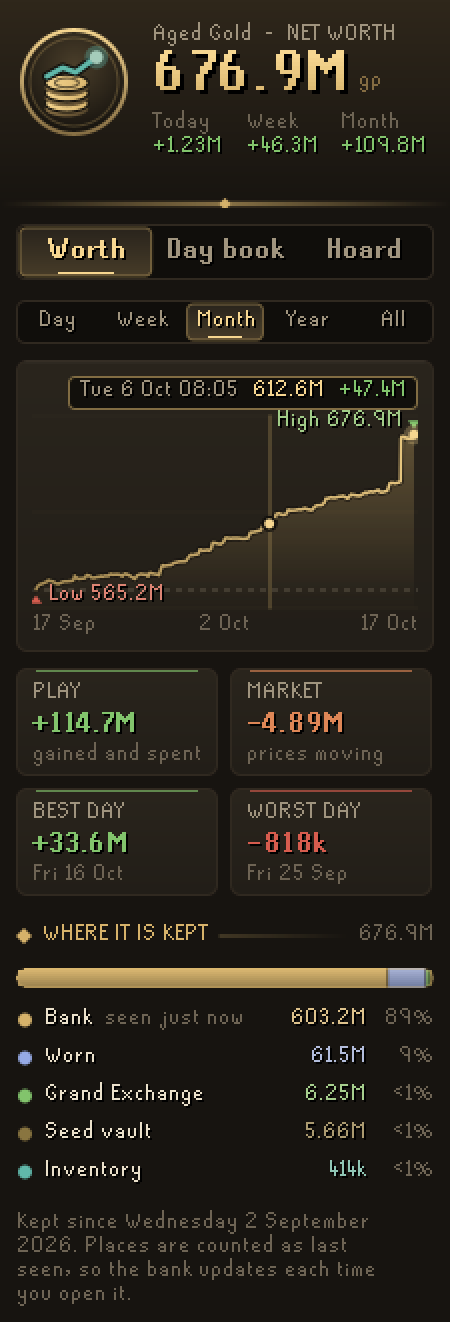
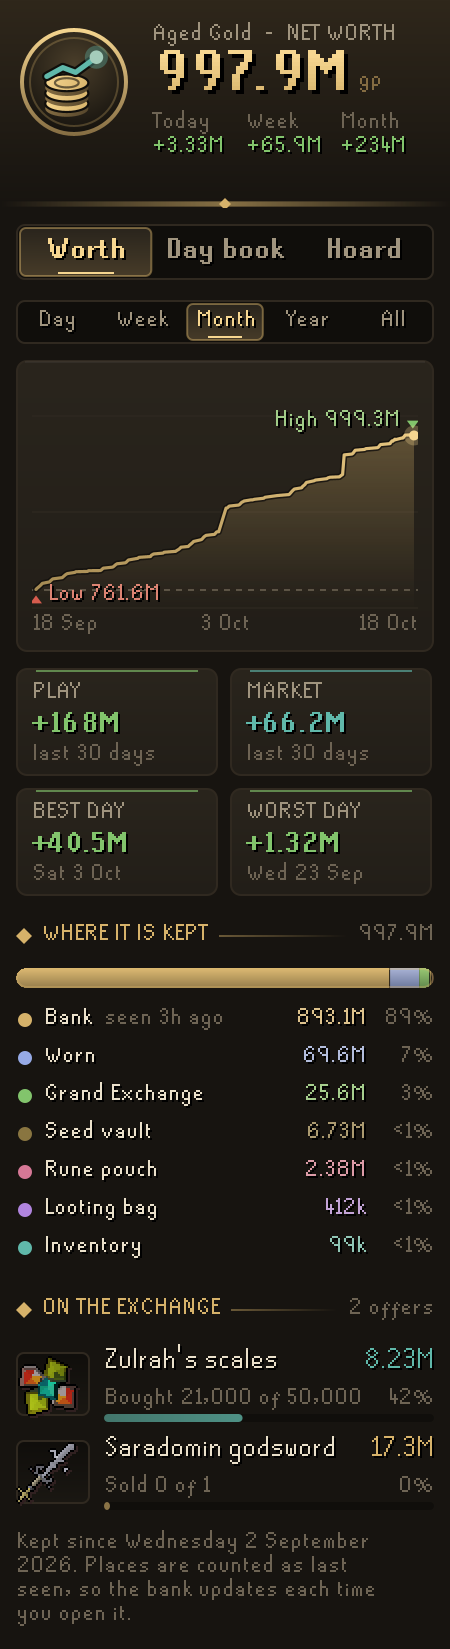
Read the day's high and low on the Day range and keep the crosshair
- The Day range shows the day's high and low instead of a best and
  worst day that are both today, and the tiles say which span they
  cover instead of a caption that was cut off.
- The chart's crosshair survives the panel refreshing under it.
- The panel is not rebuilt while it is closed; it catches up when
  opened.
- README: how the exchange, tax, rune pouch and looting bag are
  counted, and what the ledger cannot see. Screenshots refreshed.

diff --git a/src/main/java/com/codex/ledger/ui/LedgerPanel.java b/src/main/java/com/codex/ledger/ui/LedgerPanel.java
@@ -39,6 +39,7 @@ public class LedgerPanel extends PluginPanel
 	private static final String[] RANGES = {"Day", "Week", "Month", "Year", "All"};
 	private static final long[] RANGE_MS = {86_400_000L, 7 * 86_400_000L, 30 * 86_400_000L, 365 * 86_400_000L, 0};
 	private static final int[] RANGE_DAYS = {1, 7, 30, 365, 0};
+	private static final String[] RANGE_NOTES = {"today", "last 7 days", "last 30 days", "last year", "all time"};
 	private static final String[] SPANS = {"Today", "7 days", "30 days", "All"};
 	private static final int[] SPAN_DAYS = {1, 7, 30, 0};
 	private static final int LINES = 6;
@@ -71,6 +72,7 @@ public class LedgerPanel extends PluginPanel
 	private ZoneId zone = ZoneId.systemDefault();
 	private String openDay;
 	private int pagesShown = PAGES;
+	private final int[] chartPointer = {-1};
 	/** Tabs whose content is out of date; a hidden tab is only rebuilt when it is next shown. */
 	private final boolean[] stale = {true, true, true};
 
@@ -99,7 +101,11 @@ public class LedgerPanel extends PluginPanel
 
 		tabs.onChange(this::showTab);
 		range.setSelected(1, false);
-		range.onChange(i -> rebuildWorth());
+		range.onChange(i ->
+		{
+			chartPointer[0] = -1;
+			rebuildWorth();
+		});
 		span.onChange(i ->
 		{
 			openDay = null;
@@ -134,7 +140,25 @@ public class LedgerPanel extends PluginPanel
 		this.state = state;
 		this.now = now;
 		updateCrest(player);
-		rebuild();
+		if (isShowing())
+		{
+			rebuild();
+		}
+		else
+		{
+			// Nobody is looking; the tab on show is rebuilt when the panel is opened.
+			java.util.Arrays.fill(stale, true);
+		}
+	}
+
+	@Override
+	public void onActivate()
+	{
+		int tab = tabs.getSelected();
+		if (stale[tab])
+		{
+			rebuild(tab);
+		}
 	}
 
 	/** Opens one tab, for previews and tests. */
@@ -250,7 +274,7 @@ public class LedgerPanel extends PluginPanel
 		List<Ledger.Point> points = slice(ledger.getHistory(), from, to, ledger.getTotal());
 		Card chart = new Card(new BorderLayout());
 		chart.setBorder(new EmptyBorder(8, 8, 6, 8));
-		chart.add(new WorthChart(points, from, to, r == 0), BorderLayout.CENTER);
+		chart.add(new WorthChart(points, from, to, r == 0, chartPointer), BorderLayout.CENTER);
 		stack.add(chart);
 
 		Report report = Report.of(ledger, RANGE_DAYS[r], today(), 1);
@@ -274,20 +298,36 @@ public class LedgerPanel extends PluginPanel
 		}
 		JPanel tiles = new JPanel(new GridLayout(2, 2, 6, 6));
 		tiles.setOpaque(false);
-		tiles.add(new StatTile(Format.signed(report.getPlay()), "Play", "gained and spent", Theme.signed(report.getPlay())));
-		tiles.add(new StatTile(Format.signed(report.getMarket()), "Market", "prices moving", report.getMarket() >= 0 ? Theme.MARKET : Theme.EMBER));
+		String when = RANGE_NOTES[r];
+		tiles.add(new StatTile(Format.signed(report.getPlay()), "Play", when, Theme.signed(report.getPlay())));
+		tiles.add(new StatTile(Format.signed(report.getMarket()), "Market", when, report.getMarket() >= 0 ? Theme.MARKET : Theme.EMBER));
+		Day today = ledger.day(today());
+		if (r == 0 && today != null)
+		{
+			// One day has no best and worst; its high and low say more.
+			tiles.add(new StatTile(Format.coins(today.getHigh()), "High", "today", Theme.GOLD_BRIGHT));
+			tiles.add(new StatTile(Format.coins(today.getLow()), "Low", "today", Theme.GOLD));
+			stack.add(tiles);
+			whereKept(stack);
+			replace(worth, stack);
+			return;
+		}
 		tiles.add(new StatTile(best == null ? "-" : Format.signed(best.change()), "Best day",
 			best == null ? "" : Format.day(LocalDate.parse(best.getDate())), best == null ? Theme.TEXT_MUTED : Theme.signed(best.change())));
 		tiles.add(new StatTile(worst == null ? "-" : Format.signed(worst.change()), "Worst day",
 			worst == null ? "" : Format.day(LocalDate.parse(worst.getDate())), worst == null ? Theme.TEXT_MUTED : Theme.signed(worst.change())));
 		stack.add(tiles);
+		whereKept(stack);
+		replace(worth, stack);
+	}
 
+	private void whereKept(StackPanel stack)
+	{
 		stack.add(new SectionHeader("Where it is kept", Format.coins(ledger.getTotal())));
 		stack.add(new StoreBreakdown(parts()));
 		offers(stack);
 		stack.add(Ui.wrapped("Kept since " + Format.date(ledger.getSince()) + ". Places are counted as last seen, so the bank updates each time you open it.",
 			Theme.small(), Theme.TEXT_FAINT, WIDTH - 10));
-		replace(worth, stack);
 	}
 
 	private long firstPoint()

diff --git a/src/main/java/com/codex/ledger/ui/WorthChart.java b/src/main/java/com/codex/ledger/ui/WorthChart.java
@@ -30,13 +30,16 @@ class WorthChart extends JComponent
 	private final long to;
 	private final boolean intraday;
 	private int hover = -1;
+	/** Where the pointer was, carried from the chart this one replaced so a refresh keeps the crosshair. */
+	private final int[] pointer;
 
 	/**
 	 * @param points oldest first, already cut to the range
 	 * @param intraday label the axis with times rather than dates
 	 */
-	WorthChart(List<Ledger.Point> points, long from, long to, boolean intraday)
+	WorthChart(List<Ledger.Point> points, long from, long to, boolean intraday, int[] pointer)
 	{
+		this.pointer = pointer;
 		this.points = points;
 		this.from = from;
 		this.to = Math.max(from + 1, to);
@@ -48,6 +51,7 @@ class WorthChart extends JComponent
 			@Override
 			public void mouseMoved(MouseEvent e)
 			{
+				pointer[0] = e.getX();
 				int index = nearest(e.getX());
 				if (index != hover)
 				{
@@ -59,6 +63,7 @@ class WorthChart extends JComponent
 			@Override
 			public void mouseExited(MouseEvent e)
 			{
+				pointer[0] = -1;
 				hover = -1;
 				repaint();
 			}
@@ -96,6 +101,10 @@ class WorthChart extends JComponent
 		int w = getWidth();
 		int h = getHeight();
 		int plotBottom = h - BOTTOM;
+		if (hover < 0 && pointer[0] >= 0)
+		{
+			hover = nearest(pointer[0]);
+		}
 		g.setFont(Theme.small());
 		FontMetrics fm = g.getFontMetrics();
 

diff --git a/src/test/java/com/codex/ledger/ui/FormatTest.java b/src/test/java/com/codex/ledger/ui/FormatTest.java
@@ -1,0 +1,34 @@
+package com.codex.ledger.ui;
+
+import com.codex.ledger.core.Offer;
+import static org.junit.Assert.assertEquals;
+import org.junit.Test;
+
+public class FormatTest
+{
+	@Test
+	public void compactKeepsToThreeFigures()
+	{
+		assertEquals("+628M", Format.signedCompact(628_140_000L));
+		assertEquals("-41.2k", Format.signedCompact(-41_249));
+		assertEquals("1.53B", Format.compact(1_534_000_000L));
+		assertEquals("8,240", Format.compact(8_240));
+		assertEquals("12.4M", Format.compact(12_400_000));
+	}
+
+	@Test
+	public void billionsCarryAnotherFigure()
+	{
+		assertEquals("1.504B", Format.coins(1_504_200_000L));
+		assertEquals("676.9M", Format.coins(676_900_000L));
+		assertEquals("12.4B", Format.coins(12_400_000_000L));
+	}
+
+	@Test
+	public void offersSayHowFarTheyHaveGot()
+	{
+		assertEquals("Bought 21,000 of 50,000", LedgerPanel.offerNote(new Offer(1, true, 50_000, 160, 21_000, 3_340_000, true)));
+		assertEquals("Sold 1, to collect", LedgerPanel.offerNote(new Offer(1, false, 1, 160, 1, 160, false)));
+		assertEquals("Cancelled at 3 of 10", LedgerPanel.offerNote(new Offer(1, true, 10, 160, 3, 480, false)));
+	}
+}

diff --git a/README.md b/README.md
@@ -1,6 +1,6 @@
 # Codex Ledger
 
-**Your net worth over time, and where your gold went.** Codex Ledger keeps count of everything your account owns (bank, inventory, worn gear, Grand Exchange offers, seed vault and looting bag), draws your worth as a line over days, weeks and months, and keeps a day book that splits every change into what you gained or spent and what prices did.
+**Your net worth over time, and where your gold went.** Codex Ledger keeps count of everything your account owns (bank, inventory, worn gear, Grand Exchange offers, rune pouch, seed vault and looting bag), draws your worth as a line over days, weeks and months, and keeps a day book that splits every change into what you gained or spent and what prices did.
 
 It is the sixth plugin in the **Codex** suite, after [Codex Navigator](https://github.com/Nubles/OSRS-Codex-Navigator), [Codex Guardian](https://github.com/Nubles/OSRS-Codex-Guardian), [Codex Log Insight](https://github.com/Nubles/OSRS-Codex-Log-Insight), [Codex Gear Roadmap](https://github.com/Nubles/OSRS-Codex-Gear-Roadmap) and [Codex Session Chronicle](https://github.com/Nubles/OSRS-Codex-Session-Chronicle), and shares their look: warm ink, aged gold and the game's own fonts.
 
@@ -12,9 +12,9 @@ It is the sixth plugin in the **Codex** suite, after [Codex Navigator](https://g
 
 ## What it does
 
-- **Worth.** Your net worth in large gilt figures with what it did today, this week and this month. A line chart for the last day, week, month, year or all time, with the high and low marked and a crosshair that reads out any moment. Tiles for the range's play and market, its best and worst days, then where your worth is kept, place by place, with when each was last seen.
-- **Day book.** Where the gold came from and went, for today, the last 7 or 30 days, or all time: the change split into **play** (items gained or spent, at that day's prices) and **market** (prices moving on what you held), the items that brought the most in, the supplies and purchases that took the most out, and the biggest price moves on your holdings. Below that, a page for every day with its close and change. Click a page to open that day on its own.
-- **Hoard.** Everything you hold, most valuable first, with each item's share of your worth.
+- **Worth.** Your net worth in large gilt figures with what it did today, this week and this month. A line chart for the last day, week, month, year or all time, with the high and low marked and a crosshair that reads out any moment. Tiles for the range's play and market and its best and worst days (or the day's high and low), then where your worth is kept, place by place, with when each was last seen, and each Grand Exchange offer with how far it has got and what is sitting in it.
+- **Day book.** Where the gold came from and went, for today, the last 7 or 30 days, or all time: the change split into **play** (items gained or spent, at that day's prices) and **market** (prices moving on what you held), the items that brought the most in, the supplies and purchases that took the most out, and the biggest price moves on your holdings. Below that, a page for every day with its close and change, as far back as the day book goes. Click a page to open that day on its own.
+- **Hoard.** Everything you hold, most valuable first, with each item's share of your worth and (on hover) where it is kept. Items with no Grand Exchange price are named at the bottom, so you know what counts as nothing.
 - **Login summary.** A line in the chat box when you log in with your worth, today's change and how much it moved while you were away (prices, finished Grand Exchange offers). It can be turned off.
 - **Plaque.** An optional slim plaque in the game view with your worth and today's change.
 
@@ -26,11 +26,17 @@ It is the sixth plugin in the **Codex** suite, after [Codex Navigator](https://g
 
 ## How it counts
 
-Each place is read when the game shows it to you, and remembered as last seen: the inventory and worn gear all the time, the bank whenever it is open, the seed vault and looting bag when you open them, and the Grand Exchange from your offers (the coins and items sitting in each). The ledger begins the first time you open your bank.
+Each place is read when the game shows it to you, and remembered as last seen: the inventory, worn gear and rune pouch all the time, the bank whenever it is open, the seed vault and looting bag when you open them, and the Grand Exchange from your offers. The ledger begins the first time you open your bank.
 
-Changes are settled once a game tick, so moving items between the bank, your inventory and your gear is never a gain or a loss. Every item is valued at RuneLite's Grand Exchange price; untradeable items count as nothing. About once a minute everything is revalued at the latest prices, and the difference is booked as market. A place seen for the first time (your seed vault, say) is opening balance, not a gain. Items collected from the Grand Exchange straight to the bank are counted there right away, and the bank's real contents replace that guess the next time you open it.
+Changes are settled once a game tick, so moving items between the bank, your inventory and your gear is never a gain or a loss. Every item is valued at RuneLite's item price (the Grand Exchange or wiki price, as set in RuneLite), with platinum tokens at 1,000 coins and charged or broken-down items at the value of their parts; items with no price count as nothing. About once a minute everything is revalued at the latest prices, and the difference is booked as market. A place seen for the first time (your seed vault, say) is opening balance, not a gain.
 
-The history keeps fine detail for the last two days, a point every three hours for six weeks and a point a day beyond that, and the day book keeps 120 days, so the whole ledger stays small. It is saved per account in your RuneLite profile.
+**The Grand Exchange** is counted offer by offer: a buy holds what it has bought and the coins it has not spent; a sale holds what is unsold and the coins it has made, after the 2% exchange tax (at most 5M an item; none on items under 50 coins or on bonds). An offer filling is not a gain or loss in itself, only the difference between what you paid and the market price is. When you collect an offer, what lands in your inventory is counted there; what goes to the bank is put there right away, and the bank's real contents replace that guess the next time you open it. Collecting part of an offer that is still trading is followed while the exchange or a collection box is open.
+
+A looting bag that is no longer in your inventory or bank (lost in the wilderness) is counted empty. After logging in, nothing is counted for a couple of ticks, until the offers and rune pouch have arrived alongside the inventory.
+
+Things the game does not show, such as your POH storage, STASH units, item sacks and the gravestone, are not counted: putting items there shows as gold going out, and taking them back as gold coming in.
+
+The history keeps fine detail for the last two days, a point every three hours for six weeks and a point a day beyond that, and the day book keeps 120 days, so the whole ledger stays small. It is saved per account in your RuneLite profile, every few minutes and whenever you log out.
 
 ## Rules posture
 
